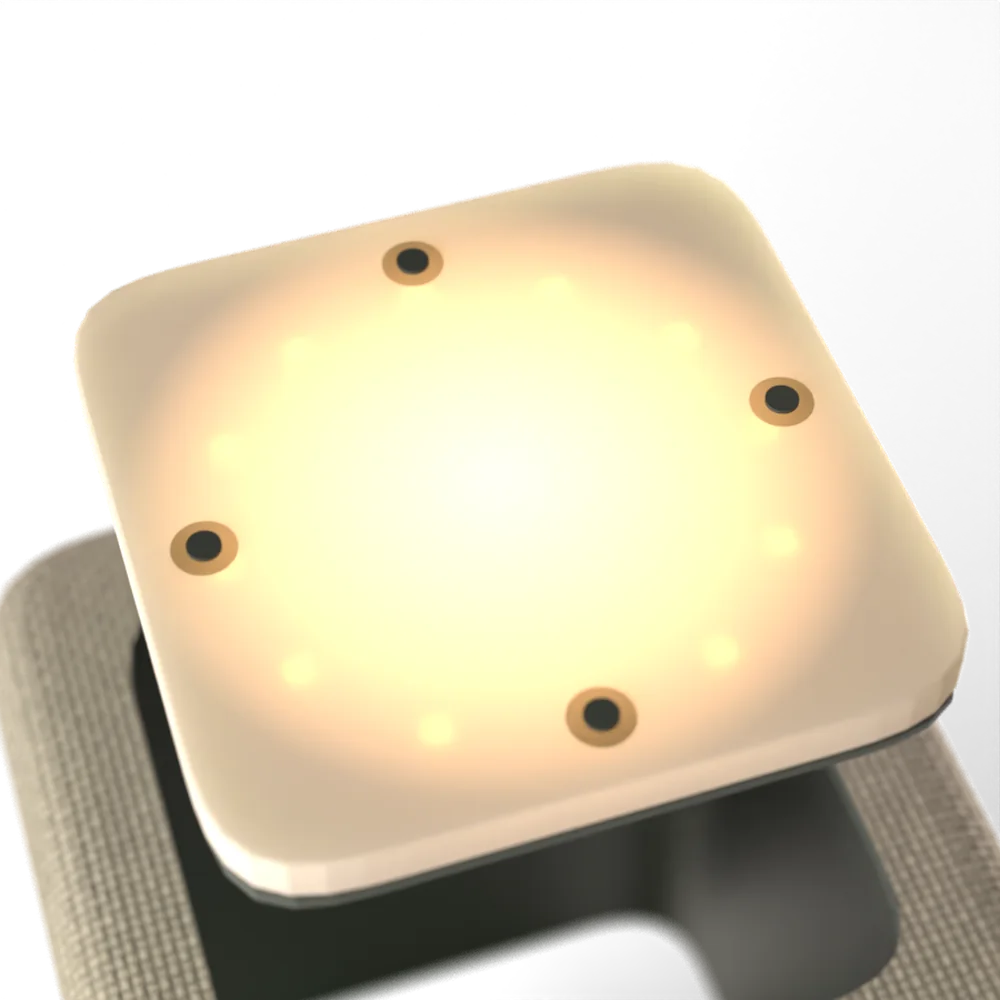
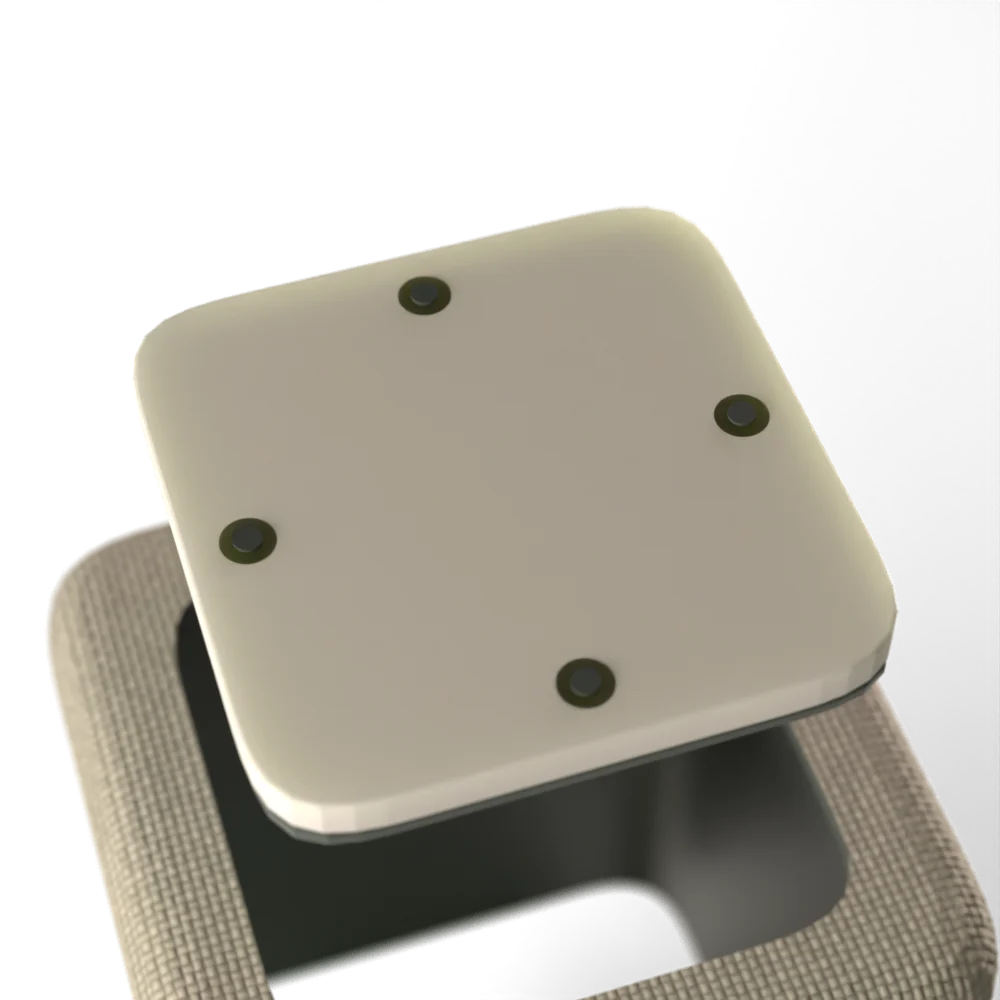
Speaker top: live lava-lamp light and real raised buttons, touch bar removed

diff --git a/inside.js b/inside.js
@@ -67,7 +67,7 @@
     }
 
     function build() {
-      stopWeave(); stopGame(); stopRick();
+      stopWeave(); stopGame(); stopRick(); stopLava();
       stage.innerHTML = ''; plist.innerHTML = ''; mcard.innerHTML = ''; nodes = []; cur = -1;
       stage.classList.remove('focus', 'zoomed', 'playing'); rickBox = null;
       var parts = SETS[set], B = L[set];
@@ -102,7 +102,7 @@
         var f = MACROS[set][p.k]; if (!f) return;
         var m = el('div', 'macro' + (p.k === 'processor' && set === 'speaker' ? '' : ' soft')); var mi = el('img'); mi.src = 'inside/macro_' + f + '.webp'; mi.alt = p.name + ', close up'; m.appendChild(mi);
         if (set === 'speaker' && p.k === 'processor') { p._screen = el('canvas', 'screen'); m.appendChild(p._screen); }
-        if (set === 'speaker' && p.k === 'panel') { p._bar = makeControls(); m.appendChild(p._bar); }
+        if (set === 'speaker' && p.k === 'panel') { p._bar = makeControls(); m.appendChild(p._bar._lavaEl); m.appendChild(p._bar); }
         stage.appendChild(m); p._macro = m;
       });
     }
@@ -131,22 +131,26 @@
       fr.src = RICK;
       rickBox.appendChild(fr); stage.appendChild(rickBox); stage.classList.add('playing'); paused = false;
     }
+    var lavaRaf = 0;
     function makeControls() {
-      var bar = el('div', 'touchbar'); tb = bar;
+      var top = el('div', 'toplayer'); tb = top;
+      var lv = el('div', 'lavalayer'); var cv = el('canvas', 'lava'); cv.width = 200; cv.height = 200; lv.appendChild(cv); top._lava = cv; top._lavaEl = lv;
       var icons = {
         minus: '<svg viewBox="0 0 24 24"><path d="M6 12h12"/></svg>',
         plus: '<svg viewBox="0 0 24 24"><path d="M6 12h12M12 6v12"/></svg>',
         play: '<svg viewBox="0 0 24 24" class="i-play"><path d="M8 5.5v13l11-6.5z"/></svg><svg viewBox="0 0 24 24" class="i-pause"><path d="M7 5h3.5v14H7zM13.5 5H17v14h-3.5z"/></svg>'
       };
-      var mute = el('button', 'tb tb-mute'); mute.type = 'button'; mute.setAttribute('aria-label', 'Mute');
-      mute.innerHTML = '<span class="knob"></span><span class="tb-lab">Mute</span>';
-      var dn = el('button', 'tb', icons.minus); dn.type = 'button'; dn.setAttribute('aria-label', 'Volume down');
-      var pl = el('button', 'tb tb-play', icons.play); pl.type = 'button'; pl.setAttribute('aria-label', 'Play or pause');
-      var up = el('button', 'tb', icons.plus); up.type = 'button'; up.setAttribute('aria-label', 'Volume up');
-      var pips = el('div', 'pips'); for (var i = 0; i < 10; i++) pips.appendChild(el('span', 'pip'));
-      [mute, dn, pl, up].forEach(function (b) { bar.appendChild(b); }); bar.appendChild(pips);
-      function swallow(e) { e.stopPropagation(); }
-      bar.addEventListener('click', swallow);
+      function btn(cls, label, html, x, y) {
+        var b = el('button', 'pbtn ' + cls, html); b.type = 'button'; b.setAttribute('aria-label', label);
+        b.style.left = x + 'px'; b.style.top = y + 'px'; top.appendChild(b); return b;
+      }
+      var dn = btn('', 'Volume down', icons.minus, 100, 200);
+      var pl = btn('big', 'Play or pause', icons.play, 200, 200);
+      var up = btn('', 'Volume up', icons.plus, 300, 200);
+      var mute = el('button', 'pswitch'); mute.type = 'button'; mute.setAttribute('aria-label', 'Mute'); mute.innerHTML = '<span class="pknob"></span>';
+      mute.style.left = '200px'; mute.style.top = '292px'; top.appendChild(mute);
+      var pips = el('div', 'pips'); for (var i = 0; i < 10; i++) pips.appendChild(el('span', 'pip')); top.appendChild(pips);
+      top.addEventListener('click', function (e) { e.stopPropagation(); });
       mute.addEventListener('click', function () { muted = !muted; yt(muted ? 'mute' : 'unMute'); syncBar(); });
       dn.addEventListener('click', function () { vol = Math.max(0, vol - 1); if (vol === 0) { muted = true; yt('mute'); } else { yt('setVolume', [vol * 10]); } syncBar(); });
       up.addEventListener('click', function () { vol = Math.min(10, vol + 1); if (muted) { muted = false; yt('unMute'); } yt('setVolume', [vol * 10]); syncBar(); });
@@ -157,15 +161,42 @@
         syncBar();
       });
       syncBar();
-      return bar;
+      return top;
     }
     function fitBar(macro, bar) {
-      var W = 460, H = 96, mw = macro.offsetWidth, mh = macro.offsetHeight;
-      var TL = [0.075, 0.31], TR = [0.725, 0.17], BR = [0.965, 0.655], BL = [0.265, 0.86];
-      function P(u, v) { return [((1 - v) * ((1 - u) * TL[0] + u * TR[0]) + v * ((1 - u) * BL[0] + u * BR[0])) * mw, ((1 - v) * ((1 - u) * TL[1] + u * TR[1]) + v * ((1 - u) * BL[1] + u * BR[1])) * mh]; }
+      var W = 400, H = 400, mw = macro.offsetWidth, mh = macro.offsetHeight;
+      var Q = window.ADAM_PANEL, cx = 0, cy = 0, k = 0.955;
+      Q.forEach(function (p) { cx += p[0] / 4; cy += p[1] / 4; });
+      var q = Q.map(function (p) { return [(cx + (p[0] - cx) * k) * mw, (cy + (p[1] - cy) * k) * mh]; });
       bar.style.width = W + 'px'; bar.style.height = H + 'px';
-      bar.style.transform = homography(W, H, [P(0.2, 0.45), P(0.8, 0.45), P(0.8, 0.61), P(0.2, 0.61)]);
+      bar.style.transform = homography(W, H, q);
+      bar._lavaEl.style.width = W + 'px'; bar._lavaEl.style.height = H + 'px'; bar._lavaEl.style.transform = bar.style.transform;
     }
+    function startLava(cv) {
+      var ctx = cv.getContext('2d'), W = cv.width, H = cv.height, t0 = performance.now();
+      var B = [
+        { r: 0.30, sx: 0.31, sy: 0.23, px: 0.0, py: 1.0, c: '255, 190, 110' },
+        { r: 0.27, sx: 0.23, sy: 0.37, px: 2.1, py: 0.3, c: '255, 60, 100' },
+        { r: 0.33, sx: 0.17, sy: 0.29, px: 4.0, py: 2.4, c: '255, 150, 70' },
+        { r: 0.24, sx: 0.41, sy: 0.19, px: 1.2, py: 3.3, c: '255, 70, 140' },
+        { r: 0.28, sx: 0.27, sy: 0.33, px: 5.1, py: 0.7, c: '255, 200, 120' }
+      ];
+      function frame(now) {
+        var t = (now - t0) / 1000;
+        var g = ctx.createLinearGradient(0, 0, W, H); g.addColorStop(0, '#ff7a3a'); g.addColorStop(1, '#ff3d6e');
+        ctx.globalCompositeOperation = 'source-over'; ctx.fillStyle = g; ctx.fillRect(0, 0, W, H);
+        ctx.globalCompositeOperation = 'lighter';
+        B.forEach(function (b) {
+          var x = (0.5 + 0.34 * Math.sin(t * b.sx + b.px)) * W, y = (0.5 + 0.34 * Math.sin(t * b.sy + b.py)) * H, r = b.r * W * (1 + 0.12 * Math.sin(t * 0.9 + b.px));
+          var rg = ctx.createRadialGradient(x, y, 0, x, y, r);
+          rg.addColorStop(0, 'rgba(' + b.c + ', 0.85)'); rg.addColorStop(1, 'rgba(' + b.c + ', 0)');
+          ctx.fillStyle = rg; ctx.fillRect(0, 0, W, H);
+        });
+        lavaRaf = requestAnimationFrame(frame);
+      }
+      stopLava(); lavaRaf = requestAnimationFrame(frame);
+    }
+    function stopLava() { if (lavaRaf) cancelAnimationFrame(lavaRaf); lavaRaf = 0; }
 
     function startWeave(cv) {
       var ctx = cv.getContext('2d'), W = cv.width, H = cv.height, S = 14;
@@ -278,7 +309,7 @@
       node.card.classList.add('on'); node.mc.classList.add('on');
       clamp(node.card);
       stopWeave(); stopGame(); clearTimeout(zoomTimer);
-      if (p.k !== 'panel') stopRick();
+      if (p.k !== 'panel') { stopRick(); stopLava(); }
       stage.classList.remove('zoomed');
       parts.forEach(function (q) { if (q._macro) q._macro.classList.remove('on'); });
       parts.forEach(function (q, k) { place(null, q, L[set][q.k], nodes[k].card); });
@@ -289,13 +320,13 @@
         zoomTimer = setTimeout(function () {
           stage.classList.add('zoomed'); p._macro.classList.add('on');
           if (isDesktop()) { var cs = node.card.style; cs.left = 'auto'; cs.bottom = 'auto'; cs.right = '0'; cs.top = '50%'; cs.transform = 'translateY(-50%)'; }
-          if (p._bar) fitBar(p._macro, p._bar);
+          if (p._bar) { fitBar(p._macro, p._bar); startLava(p._bar._lava); }
           if (set === 'speaker' && p.k === 'processor') startDieGame(p._macro, p._screen);
         }, 450);
       }
     }
     function close() {
-      cur = -1; clearTimeout(zoomTimer); stage.classList.remove('focus', 'zoomed'); stopWeave(); stopGame(); stopRick();
+      cur = -1; clearTimeout(zoomTimer); stage.classList.remove('focus', 'zoomed'); stopWeave(); stopGame(); stopRick(); stopLava();
       SETS[set].forEach(function (q) { if (q._macro) q._macro.classList.remove('on'); });
       SETS[set].forEach(function (q, k) { q._lay.classList.remove('sel'); q._lin.classList.remove('sel'); nodes[k].card.classList.remove('on'); nodes[k].mc.classList.remove('on'); nodes[k].tag.style.visibility = ''; });
     }

diff --git a/site.css b/site.css
@@ -523,27 +523,24 @@ footer a:hover { color: var(--bg); }
 .fam-sentence .w:not(.k) { transition: none; }
 .fam-sentence .k { vertical-align: baseline !important; }
 
-.macro .touchbar { position: absolute; left: 0; top: 0; transform-origin: 0 0; display: flex; align-items: center; justify-content: space-between; padding: 0 20px 14px; border-radius: 22px; background: rgba(28, 26, 23, 0.88); box-shadow: inset 0 0 0 1px rgba(255, 255, 255, 0.14), 0 0 30px rgba(255, 150, 60, 0.35); }
-.gstage.playing .macro .touchbar { box-shadow: inset 0 0 0 1px rgba(255, 255, 255, 0.2), 0 0 44px rgba(255, 130, 40, 0.7); }
-.touchbar .tb { width: 62px; height: 52px; border: 0; border-radius: 14px; background: rgba(255, 255, 255, 0.12); color: #fff; display: grid; place-items: center; cursor: pointer; padding: 0; transition: background-color 200ms var(--ease), transform 200ms var(--ease); }
-.touchbar .tb:hover { background: rgba(255, 255, 255, 0.24); }
-.touchbar .tb:active { transform: scale(0.94); }
-.touchbar .tb svg { width: 26px; height: 26px; fill: none; stroke: currentColor; stroke-width: 2.4; stroke-linecap: round; }
-.touchbar .tb-play { width: 96px; background: var(--acc); }
-.touchbar .tb-play:hover { background: #e2602f; }
-.touchbar .tb-play svg { fill: currentColor; stroke: none; }
-.touchbar .tb-play .i-pause { display: none; }
-.touchbar.is-playing .tb-play .i-pause { display: block; }
-.touchbar.is-playing .tb-play .i-play { display: none; }
-.touchbar .tb-mute { position: relative; width: 78px; padding-top: 22px; }
-.touchbar .tb-mute .knob { position: absolute; left: 12px; top: 10px; width: 54px; height: 18px; border-radius: 9px; background: rgba(255, 255, 255, 0.2); }
-.touchbar .tb-mute .knob::after { content: ""; position: absolute; left: 2px; top: 2px; width: 14px; height: 14px; border-radius: 50%; background: #fff; transition: transform 250ms var(--ease), background-color 250ms var(--ease); }
-.touchbar.is-muted .tb-mute .knob { background: var(--acc); }
-.touchbar.is-muted .tb-mute .knob::after { transform: translateX(36px); }
-.touchbar .tb-lab { font-size: 11px; line-height: 14px; font-weight: 500; letter-spacing: 0.04em; text-transform: uppercase; margin-top: 4px; }
-.touchbar .pips { position: absolute; left: 50%; bottom: 9px; transform: translateX(-50%); display: flex; gap: 6px; }
-.touchbar .pip { width: 16px; height: 4px; border-radius: 2px; background: rgba(255, 255, 255, 0.2); transition: background-color 200ms var(--ease); }
-.touchbar .pip.on { background: #ffb27a; }
+.macro .toplayer, .macro .lavalayer { position: absolute; left: 0; top: 0; transform-origin: 0 0; border-radius: 105px; }
+.macro .lavalayer { overflow: hidden; mix-blend-mode: overlay; pointer-events: none; }
+.lavalayer .lava { position: absolute; inset: 0; width: 100%; height: 100%; filter: blur(10px); transform: scale(1.1); }
+.toplayer .pbtn { position: absolute; width: 62px; height: 62px; margin: -31px 0 0 -31px; border: 0; border-radius: 50%; display: grid; place-items: center; cursor: pointer; padding: 0; color: #2a221b; background: radial-gradient(circle at 50% 30%, #fffdf8 0%, #f1e8da 70%, #e0d4c2 100%); box-shadow: 0 7px 9px rgba(70, 30, 10, 0.45), 0 2px 2px rgba(70, 30, 10, 0.5), inset 0 -4px 6px rgba(90, 60, 30, 0.2), inset 0 2px 3px #fff; transition: transform 140ms var(--ease), box-shadow 140ms var(--ease); mix-blend-mode: normal; }
+.toplayer .pbtn.big { width: 92px; height: 92px; margin: -46px 0 0 -46px; }
+.toplayer .pbtn:hover { transform: translateY(-1px); }
+.toplayer .pbtn:active { transform: translateY(4px); box-shadow: 0 2px 3px rgba(70, 30, 10, 0.45), inset 0 -2px 4px rgba(90, 60, 30, 0.2), inset 0 2px 3px #fff; }
+.toplayer .pbtn svg { width: 26px; height: 26px; fill: none; stroke: currentColor; stroke-width: 2.6; stroke-linecap: round; }
+.toplayer .pbtn.big svg { width: 38px; height: 38px; fill: currentColor; stroke: none; }
+.toplayer .pbtn .i-pause { display: none; }
+.toplayer.is-playing .pbtn .i-pause { display: block; }
+.toplayer.is-playing .pbtn .i-play { display: none; }
+.toplayer .pswitch { position: absolute; width: 84px; height: 30px; margin: -15px 0 0 -42px; border: 0; padding: 0; border-radius: 15px; cursor: pointer; background: #3a2e26; box-shadow: inset 0 3px 5px rgba(0, 0, 0, 0.6), 0 2px 2px rgba(255, 255, 255, 0.5); mix-blend-mode: normal; }
+.toplayer .pknob { position: absolute; left: 3px; top: 3px; width: 38px; height: 24px; border-radius: 12px; background: radial-gradient(circle at 50% 30%, #fffdf8, #e6dccb); box-shadow: 0 3px 4px rgba(0, 0, 0, 0.45), inset 0 -2px 3px rgba(90, 60, 30, 0.2); transition: transform 220ms var(--ease); }
+.toplayer.is-muted .pknob { transform: translateX(40px); }
+.toplayer .pips { position: absolute; left: 50%; top: 118px; transform: translateX(-50%); display: flex; gap: 5px; }
+.toplayer .pip { width: 12px; height: 3px; border-radius: 2px; background: rgba(60, 30, 10, 0.25); }
+.toplayer .pip.on { background: rgba(255, 255, 255, 0.95); }
 .nowplaying { position: absolute; left: 12px; bottom: 12px; z-index: 6; width: 200px; background: var(--ink); border-radius: 12px; overflow: hidden; }
 .nowplaying iframe { display: block; width: 200px; height: 113px; border: 0; }
 .macro.soft img { -webkit-mask-image: radial-gradient(ellipse 56% 56% at 50% 50%, #000 66%, transparent 100%); mask-image: radial-gradient(ellipse 56% 56% at 50% 50%, #000 66%, transparent 100%); }

diff --git a/index.html b/index.html
@@ -24,7 +24,7 @@
   <link rel="preconnect" href="https://fonts.googleapis.com">
   <link rel="preconnect" href="https://fonts.gstatic.com" crossorigin>
   <link rel="stylesheet" href="https://fonts.googleapis.com/css2?family=Geist:wght@400;500;600&family=Geist+Mono:wght@400;500&display=swap">
-  <link rel="stylesheet" href="site.css?v=70">
+  <link rel="stylesheet" href="site.css?v=73">
   <script>document.documentElement.className = 'js';</script>
   <script type="application/ld+json">{"@context":"https://schema.org","@type":"FAQPage","mainEntity":[
     {"@type":"Question","name":"Does Adam have cameras?","acceptedAnswer":{"@type":"Answer","text":"No. There are no cameras in the speaker or the plugs, and no wearables to charge."}},
@@ -208,8 +208,8 @@
   </footer>
 
   <script src="site.js?v=14"></script>
-  <script src="inside/data.js?v=1"></script>
-  <script src="inside.js?v=6"></script>
+  <script src="inside/data.js?v=2"></script>
+  <script src="inside.js?v=9"></script>
   <script src="family.js?v=26"></script>
   <script src="day.js?v=6"></script>
   <script src="motion.js?v=1"></script>

diff --git a/inside/data.js b/inside/data.js
@@ -1,2 +1,3 @@
 window.ADAM_LAYERS = {"speaker": {"base": [0.5106, 0.6775, 0.7556, 0.8767], "board": [0.5225, 0.4142, 0.7619, 0.58], "driver": [0.5294, 0.5425, 0.7438, 0.7408], "memory": [0.43, 0.3633, 0.5356, 0.4675], "panel": [0.1156, 0.15, 0.315, 0.2725], "processor": [0.5613, 0.2683, 0.7306, 0.3658], "radar": [0.8187, 0.1408, 0.95, 0.1942], "radio": [0.7631, 0.3008, 0.875, 0.3633], "shell": [0.0788, 0.2408, 0.3762, 0.8183], "storage": [0.8681, 0.4317, 0.9331, 0.4683]}, "plug": {"board": [0.39, 0.3558, 0.6138, 0.4792], "housing": [0.3663, 0.1242, 0.6394, 0.2783], "module": [0.4163, 0.5217, 0.5475, 0.6425], "pins": [0.375, 0.5483, 0.63, 0.8367]}};
 window.ADAM_DIE = [[0.2729, 0.3208], [0.606, 0.2581], [0.7047, 0.526], [0.3435, 0.6004]];
+window.ADAM_PANEL = [[0.1122, 0.3224], [0.6882, 0.188], [0.9323, 0.6491], [0.2668, 0.8347]];
